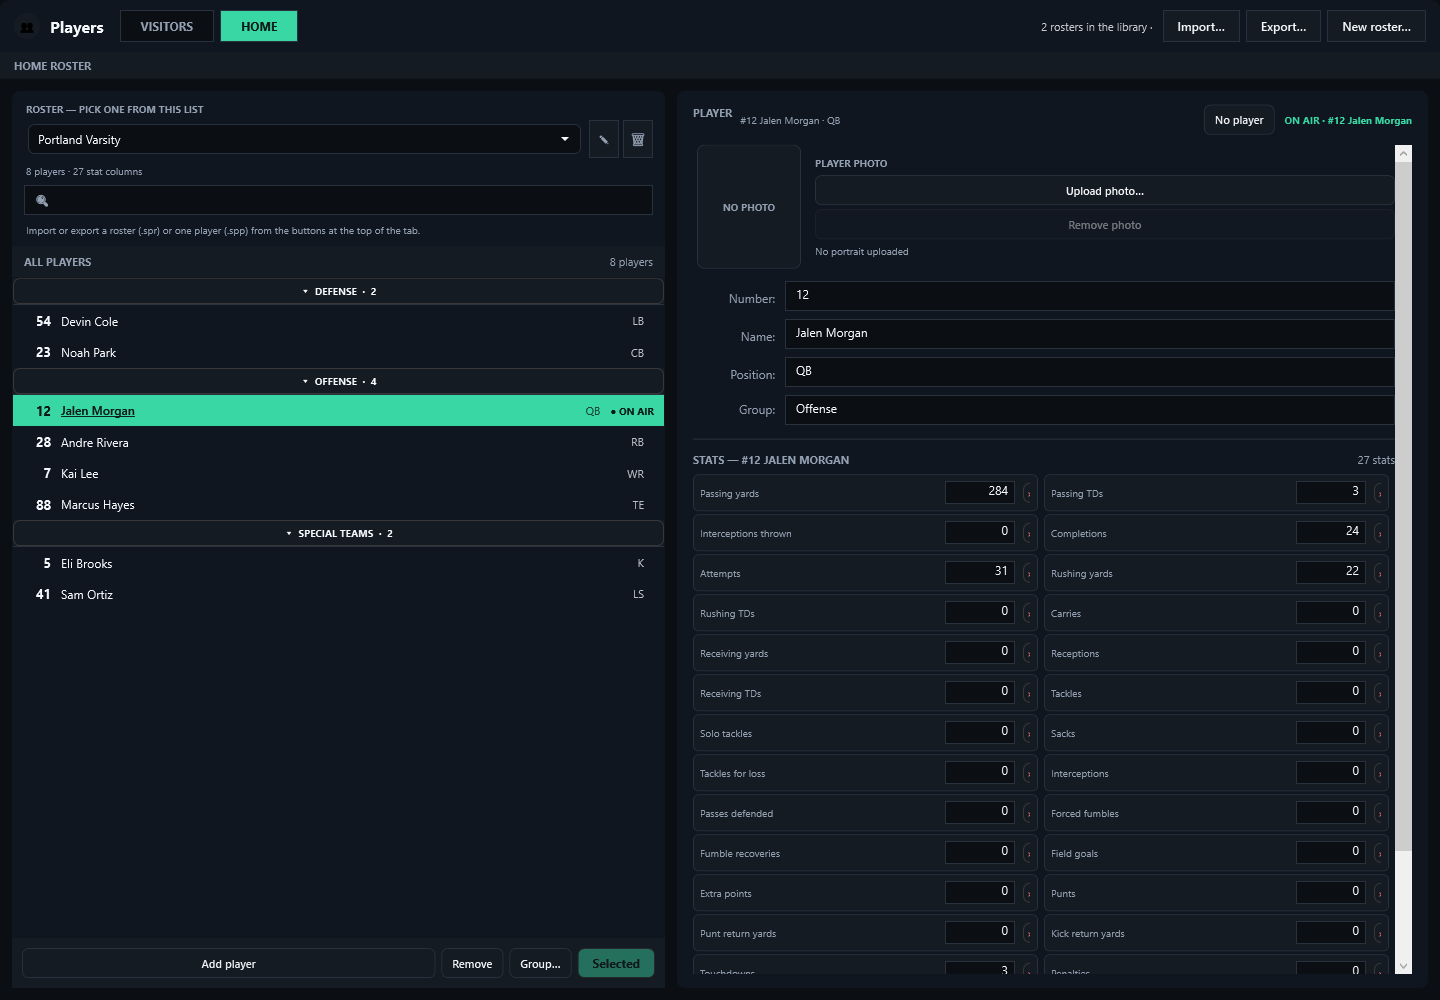
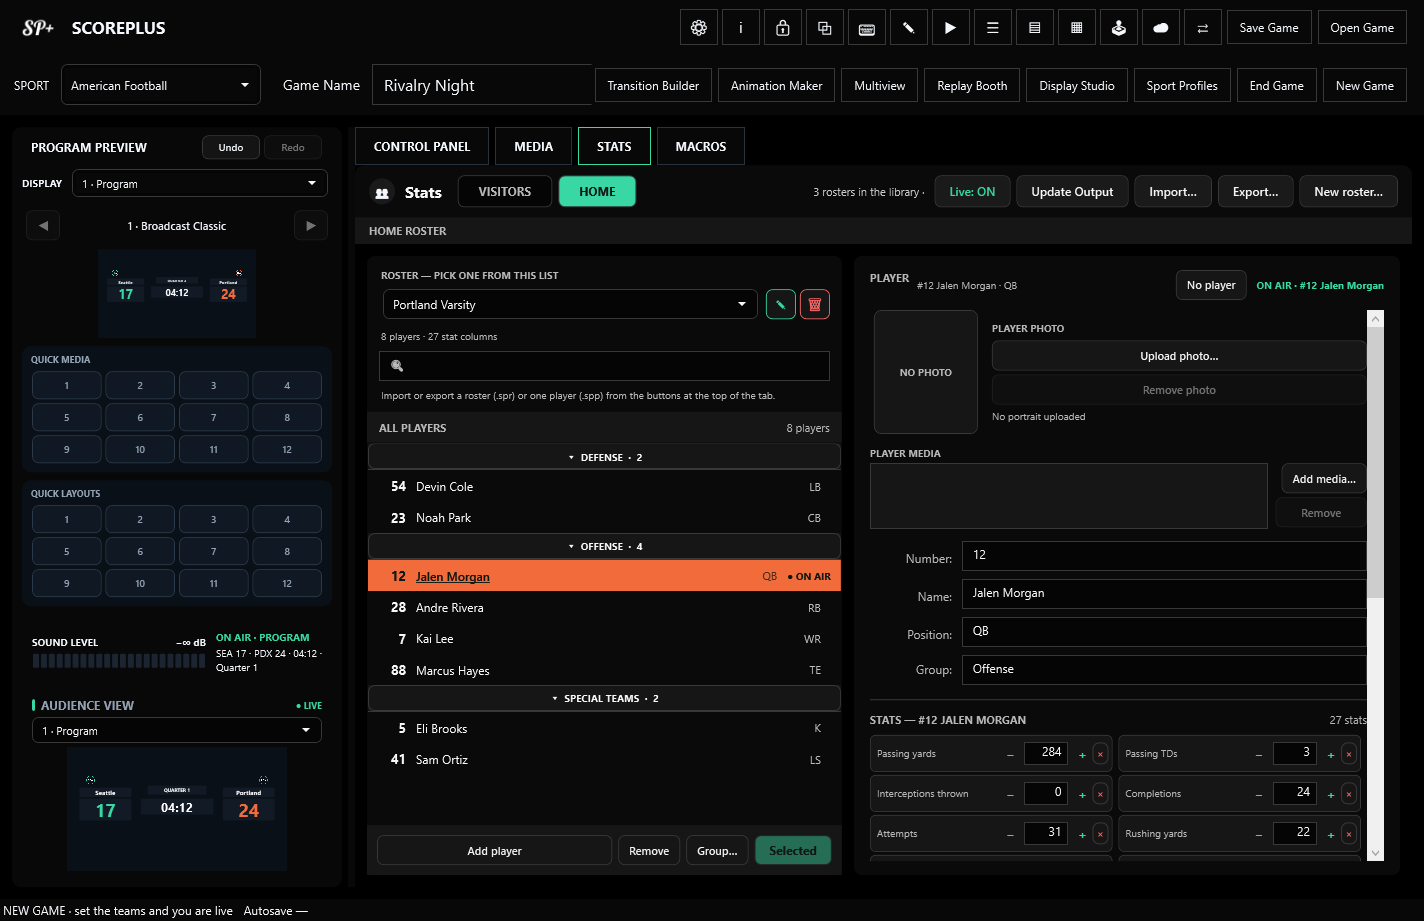
Capture every operator window for the wiki
The screenshot harness now drives the real media, roster, hardware, league,
multiview, replay, builder, settings and output windows instead of standing in
with the console. The refreshed assets also update the website's MEDIA and
ROSTERS shots, with a new cache-busting query so browsers pick them up.

🤖 Generated with Codebuff

diff --git a/site/index.html b/site/index.html
@@ -9,7 +9,7 @@
   <meta property="og:title" content="ScorePlus — The whole show. One screen.">
   <meta property="og:description" content="An Early Beta Windows scoreboard and broadcast graphics system built for live production.">
   <meta property="og:type" content="website">
-  <meta property="og:image" content="assets/on-air.png?v=b1.2">
+  <meta property="og:image" content="assets/on-air.png?v=b1.2-windows">
   <link rel="icon" href="assets/scoreplus-logo.png" type="image/png">
   <link rel="stylesheet" href="styles.css">
   <script>document.documentElement.classList.add('js');</script>
@@ -72,7 +72,7 @@
               <span class="monitor-live"><i></i> LIVE</span>
             </div>
             <div class="monitor-screen">
-              <img src="assets/on-air.png?v=b1.2" alt="ScorePlus broadcast scorebar showing Portland 24, Seattle 17, third down and seven, fourth quarter and 04:12 on the clock, over a live-game backdrop." width="1920" height="1080">
+              <img src="assets/on-air.png?v=b1.2-windows" alt="ScorePlus broadcast scorebar showing Portland 24, Seattle 17, third down and seven, fourth quarter and 04:12 on the clock, over a live-game backdrop." width="1920" height="1080">
               <span class="monitor-corner monitor-corner--tl" aria-hidden="true"></span>
               <span class="monitor-corner monitor-corner--br" aria-hidden="true"></span>
             </div>
@@ -114,7 +114,7 @@
               <span class="shot-path">CONTROL PANEL / 1 · RIVALRY NIGHT</span>
               <span class="shot-state">ON AIR</span>
             </div>
-            <img src="assets/console.png?v=b1.2" alt="The ScorePlus control panel driving a Portland 24, Seattle 17 football game in the fourth quarter, with 3rd &amp; 7, 04:12 on the clock, possession, timeouts, custom values and the MACROS tab." width="1424" height="921" loading="lazy">
+            <img src="assets/console.png?v=b1.2-windows" alt="The ScorePlus control panel driving a Portland 24, Seattle 17 football game in the fourth quarter, with 3rd &amp; 7, 04:12 on the clock, possession, timeouts, custom values and the MACROS tab." width="1424" height="921" loading="lazy">
             <figcaption>Real interface · demo rivalry game</figcaption>
           </figure>
 
@@ -161,7 +161,7 @@
               <span class="shot-path">DISPLAY STUDIO / RIVALRY NIGHT</span>
               <span class="shot-state shot-state--quiet">DESIGN</span>
             </div>
-            <img src="assets/studio.png?v=b1.2" alt="The ScorePlus Display Studio editing a custom broadcast scorebar showing Portland 24, Seattle 17 and 3rd &amp; 7, with a layer list, design canvas and element property panel." width="1848" height="937" loading="lazy">
+            <img src="assets/studio.png?v=b1.2-windows" alt="The ScorePlus Display Studio editing a custom broadcast scorebar showing Portland 24, Seattle 17 and 3rd &amp; 7, with a layer list, design canvas and element property panel." width="1848" height="937" loading="lazy">
             <figcaption>Real interface · Rivalry Night layout</figcaption>
           </figure>
         </div>
@@ -191,7 +191,7 @@
               <span class="shot-path">MEDIA / LIBRARY</span>
               <span class="shot-state">REAL INTERFACE</span>
             </div>
-            <img src="assets/media.png?v=b1.2" alt="The real ScorePlus MEDIA tab, with a clip library, folders, playlists, live camera and microphone items, a speaker bus, tag routing and transport controls." width="1440" height="1000" loading="lazy">
+            <img src="assets/media.png?v=b1.2-windows" alt="The real ScorePlus MEDIA tab, with a clip library, folders, playlists, live camera and microphone items, a speaker bus, tag routing and transport controls." width="1440" height="1000" loading="lazy">
             <figcaption>Real MEDIA tab · library, folders and playlists</figcaption>
           </figure>
         </div>
@@ -207,7 +207,7 @@
               <span class="shot-path">ROSTERS / HOME</span>
               <span class="shot-state">REAL INTERFACE</span>
             </div>
-            <img src="assets/stats.png?v=b1.2" alt="The real ScorePlus ROSTERS tab, showing the Portland home roster with grouped players, a selected player on air and the full football stat sheet." width="1440" height="1000" loading="lazy">
+            <img src="assets/stats.png?v=b1.2-windows" alt="The real ScorePlus ROSTERS tab, showing the Portland home roster with grouped players, a selected player on air and the full football stat sheet." width="1440" height="1000" loading="lazy">
             <figcaption>Real ROSTERS tab · home squad and stat sheet</figcaption>
           </figure>
 
@@ -236,7 +236,7 @@
               <span class="shot-path">MACROS / RIVALRY NIGHT</span>
               <span class="shot-state">REAL INTERFACE</span>
             </div>
-            <img src="assets/macros.png?v=b1.2" alt="The real ScorePlus MACROS tab with a board of coloured show-sequence buttons and the step editor open on a timeout macro during Portland vs Seattle." width="1424" height="921" loading="lazy">
+            <img src="assets/macros.png?v=b1.2-windows" alt="The real ScorePlus MACROS tab with a board of coloured show-sequence buttons and the step editor open on a timeout macro during Portland vs Seattle." width="1424" height="921" loading="lazy">
             <figcaption>Real MACROS tab · one press, several changes</figcaption>
           </figure>
 

diff --git a/tests/Screenshots/Program.cs b/tests/Screenshots/Program.cs
@@ -1,4 +1,5 @@
 using System.IO;
+using System.Reflection;
 using System.Windows;
 using System.Windows.Controls;
 using System.Windows.Media;
@@ -96,14 +97,14 @@ internal static class Program
             Capture(automation, Path.Combine(output, "conditionals.png"), 1500, 820);
             automation.Close();
 
-            Capture(new SettingsWindow(new UserPreferences { Theme = "Dark" }), Path.Combine(output, "settings.png"), 1900, 900);
+            Capture(new SettingsWindow(new UserPreferences { Theme = "Dark" }), Path.Combine(output, "settings.png"), 1900, 1100, borderless: true);
             var keybinds = new KeybindsWindow(new KeybindSettings())
             {
                 Background = new SolidColorBrush(Color.FromRgb(11, 17, 24))
             };
             ThemeManager.Apply(keybinds, "Dark");
             Capture(keybinds, Path.Combine(output, "keybinds.png"), 1500, 900);
-            Capture(new SportProfileWindow(new SportCatalog()), Path.Combine(output, "sport-profiles.png"), 1550, 900);
+            Capture(new SportProfileWindow(new SportCatalog()), Path.Combine(output, "sport-profiles.png"), 1600, 1000, borderless: true);
             var team = new TeamIdentityWindow(engine, true, "Dark")
             {
                 SizeToContent = SizeToContent.Manual,
@@ -111,9 +112,10 @@ internal static class Program
                 Height = 900
             };
             Capture(team, Path.Combine(output, "team-identity.png"), 1200, 900);
-            Capture(new AboutWindow("Dark"), Path.Combine(output, "about.png"), 720, 620);
+            Capture(new AboutWindow("Dark"), Path.Combine(output, "about.png"), 760, 540, borderless: true);
 
             SaveOnAir(catalog, engine, Path.Combine(output, "on-air.png"));
+            CaptureWindows(output, catalog, engine);
             Console.WriteLine($"Screenshots written to {output}");
             return 0;
         }
@@ -280,11 +282,154 @@ internal static class Program
         view.Dispose();
     }
 
-    static void Capture(Window window, string path, int width, int height, bool selectLayer = false)
+    static void CaptureWindows(string output, ScorebugCatalog catalog, GameEngine engine)
+    {
+        var preferences = new UserPreferences { Theme = "Dark" };
+        var session = new MediaSession(preferences);
+        SeedMedia(session);
+        SeedRoster(engine);
+
+        Capture(new OutputWindow(engine, catalog, "Dark"), Path.Combine(output, "output.png"), 1280, 720);
+
+        var hardware = new HardwareWindow(preferences, new HardwareService(engine));
+        ThemeManager.Apply(hardware, "Dark");
+        Capture(hardware, Path.Combine(output, "hardware.png"), 1100, 1000, borderless: true);
+
+        var program = new ProgramSelection(catalog);
+        var published = new GameEngine();
+        var automation = new AutomationRuntime(catalog, published, engine);
+        Capture(new MultiviewWindow(session, preferences, catalog, engine, published, program, automation, session.Playback),
+            Path.Combine(output, "multiview.png"), 1320, 820);
+
+        var booth = new ReplayBoothController(session, engine, preferences);
+        Capture(new ReplayBoothWindow(booth, preferences), Path.Combine(output, "replay-booth.png"), 1340, 860);
+
+        var league = new LeagueCloudService(engine, preferences);
+        Capture(new LeagueCloudWindow(league, preferences, catalog, program, engine),
+            Path.Combine(output, "league-cloud.png"), 760, 780, borderless: true);
+        Capture(new TickerWindow(engine, league), Path.Combine(output, "ticker.png"), 820, 760);
+
+        Capture(new EventLogWindow(engine, "Dark", false), Path.Combine(output, "event-log.png"), 1080, 760);
+        Capture(new MotionMakerWindow(MotionKind.Transition, catalog, engine, "Dark"),
+            Path.Combine(output, "transition-builder.png"), 1440, 920);
+        Capture(new MotionMakerWindow(MotionKind.Animation, catalog, engine, "Dark"),
+            Path.Combine(output, "animation-maker.png"), 1440, 920);
+        Capture(new IconMakerWindow("Dark"), Path.Combine(output, "icon-creator.png"), 1320, 1000, borderless: true);
+
+        Capture(new GameControlWindow(engine, published, catalog, () => { }, () => false, _ => { }, () => true,
+            session, "Dark", automation), Path.Combine(output, "control-panel.png"), 1280, 900);
+
+        var newGame = new SportPickerWindow(new SportCatalog(), "football", "Dark")
+        {
+            SizeToContent = SizeToContent.Manual,
+            Width = 920,
+            Height = 1000
+        };
+        Capture(newGame, Path.Combine(output, "new-game.png"), 920, 1000, borderless: true);
+
+        var pickerType = typeof(MainWindow).Assembly.GetType("Scoreboard.Desktop.DisplayPickerWindow")!;
+        var pickerCtor = pickerType.GetConstructors(BindingFlags.Instance | BindingFlags.NonPublic)
+            .First(ctor => ctor.GetParameters().Length == 8);
+        var picker = (Window)pickerCtor.Invoke([catalog, "Dark", null,
+            "Audience output", "Which display is this window for?",
+            "Each display has its own audience window and its own layout. Opening one again adds another window rather than replacing the first.",
+            "Open output", null]);
+        picker.SizeToContent = SizeToContent.Manual;
+        Capture(picker, Path.Combine(output, "display-picker.png"), 640, 360, borderless: true);
+
+        var mediaShell = new MainWindow(LaunchMode.New) { Width = 1440, Height = 960 };
+        Seed(mediaShell.Engine);
+        SeedRoster(mediaShell.Engine);
+        SeedMedia(SessionOf(mediaShell));
+        mediaShell.PublishOutput();
+        ShowForShot(mediaShell);
+        mediaShell.ShowMediaTab(true);
+        Pump(350);
+        Capture(mediaShell, Path.Combine(output, "media.png"), 1440, 960);
+
+        var statsShell = new MainWindow(LaunchMode.New) { Width = 1440, Height = 960 };
+        Seed(statsShell.Engine);
+        SeedRoster(statsShell.Engine);
+        ShowForShot(statsShell);
+        Click(statsShell, "RosterTab_Click");
+        Pump(350);
+        Capture(statsShell, Path.Combine(output, "stats.png"), 1440, 960);
+    }
+
+    static void SeedMedia(MediaSession session)
+    {
+        session.CreateFolder("Game Day");
+        session.Library.Add(new MediaEntry(@"C:\ScorePlus\Media\Game Day\Show Open.mp4", "Show", "Game Day", Name: "Show Open"));
+        session.Library.Add(new MediaEntry(@"C:\ScorePlus\Media\Highlights\Halftime Reel.mp4", "Highlights", "Highlights", Name: "Halftime Reel"));
+        session.Library.Add(new MediaEntry(@"C:\ScorePlus\Media\Highlights\Big Play.mp4", "Highlights", "Highlights", Name: "Big Play"));
+        session.Library.Add(new MediaEntry(@"C:\ScorePlus\Media\Sponsors\Spot 04.mp4", "Ads", "Sponsors", Name: "Spot 04"));
+        session.Library.Add(new MediaEntry(@"C:\ScorePlus\Media\Music\Crowd Bed.mp3", "Music", Name: "Crowd Bed"));
+        session.AddCamera(0, "Game Day");
+        session.AddMicrophone(0, "Game Day");
+        session.AddSpeaker(0, "House");
+        var playlist = session.CreatePlaylist("Show Open");
+        session.AddToPlaylist(playlist, session.Library[0]);
+    }
+
+    static void SeedRoster(GameEngine engine)
+    {
+        var roster = RosterStore.Book.Add("Portland Varsity");
+        (int Number, string Name, string Position, string Group, (string Name, int Value)[] Stats)[] players =
+        [
+            (12, "Jalen Morgan", "QB", "Offense", [("Passing yards", 284), ("Passing TDs", 3), ("Interceptions thrown", 0), ("Completions", 24), ("Attempts", 31), ("Rushing yards", 22)]),
+            (28, "Andre Rivera", "RB", "Offense", [("Rushing yards", 96), ("Rushing TDs", 1), ("Carries", 18), ("Receiving yards", 24)]),
+            (7, "Kai Lee", "WR", "Offense", [("Receiving yards", 118), ("Receptions", 7), ("Receiving TDs", 2)]),
+            (88, "Marcus Hayes", "TE", "Offense", [("Receiving yards", 46), ("Receptions", 4)]),
+            (54, "Devin Cole", "LB", "Defense", [("Tackles", 9), ("Solo tackles", 6), ("Sacks", 1)]),
+            (23, "Noah Park", "CB", "Defense", [("Tackles", 5), ("Passes defended", 2), ("Interceptions", 1)]),
+            (5, "Eli Brooks", "K", "Special Teams", [("Field goals", 1), ("Extra points", 3)]),
+            (41, "Sam Ortiz", "LS", "Special Teams", [("Tackles", 1)])
+        ];
+        foreach (var player in players)
+        {
+            var entry = roster.AddPlayer();
+            entry.Number = player.Number;
+            entry.Name = player.Name;
+            entry.Position = player.Position;
+            entry.Group = player.Group;
+            foreach (var stat in player.Stats) entry.SetStat(stat.Name, stat.Value);
+        }
+        roster.EnsureColumns(players.SelectMany(player => player.Stats.Select(stat => stat.Name)));
+        RosterStore.Save();
+        engine.AssignRoster(true, roster.Id);
+        engine.SelectPlayer(true, roster.Players[0].Id);
+    }
+
+    static MediaSession SessionOf(MainWindow window) =>
+        (MediaSession)typeof(MainWindow).GetField("_session", BindingFlags.Instance | BindingFlags.NonPublic)!.GetValue(window)!;
+
+    static void Click(MainWindow window, string method) =>
+        typeof(MainWindow).GetMethod(method, BindingFlags.Instance | BindingFlags.NonPublic)!
+            .Invoke(window, [window, new RoutedEventArgs()]);
+
+    static void ShowForShot(Window window)
+    {
+        window.WindowState = WindowState.Normal;
+        window.ShowActivated = false;
+        window.ShowInTaskbar = false;
+        window.WindowStartupLocation = WindowStartupLocation.Manual;
+        window.Left = -32000;
+        window.Top = -32000;
+        window.Show();
+        Pump(220);
+        window.UpdateLayout();
+    }
+
+    static void Capture(Window window, string path, int width, int height, bool selectLayer = false, bool borderless = false)
     {
         window.WindowState = WindowState.Normal;
         window.Width = width;
         window.Height = height;
+        if (borderless)
+        {
+            window.WindowStyle = WindowStyle.None;
+            window.ResizeMode = ResizeMode.NoResize;
+        }
         window.ShowActivated = false;
         window.ShowInTaskbar = false;
         window.WindowStartupLocation = WindowStartupLocation.Manual;
@@ -309,7 +454,9 @@ internal static class Program
         else if (content is Border border && border.Background is null) border.Background = window.Background;
         else if (content is Control control && control.Background is null) control.Background = window.Background;
         content.UpdateLayout();
-        Save(content, (int)Math.Ceiling(content.ActualWidth), (int)Math.Ceiling(content.ActualHeight), path);
+        var renderWidth = borderless ? width : (int)Math.Ceiling(content.ActualWidth);
+        var renderHeight = borderless ? height : (int)Math.Ceiling(content.ActualHeight);
+        Save(content, renderWidth, renderHeight, path);
         window.Close();
     }
 
